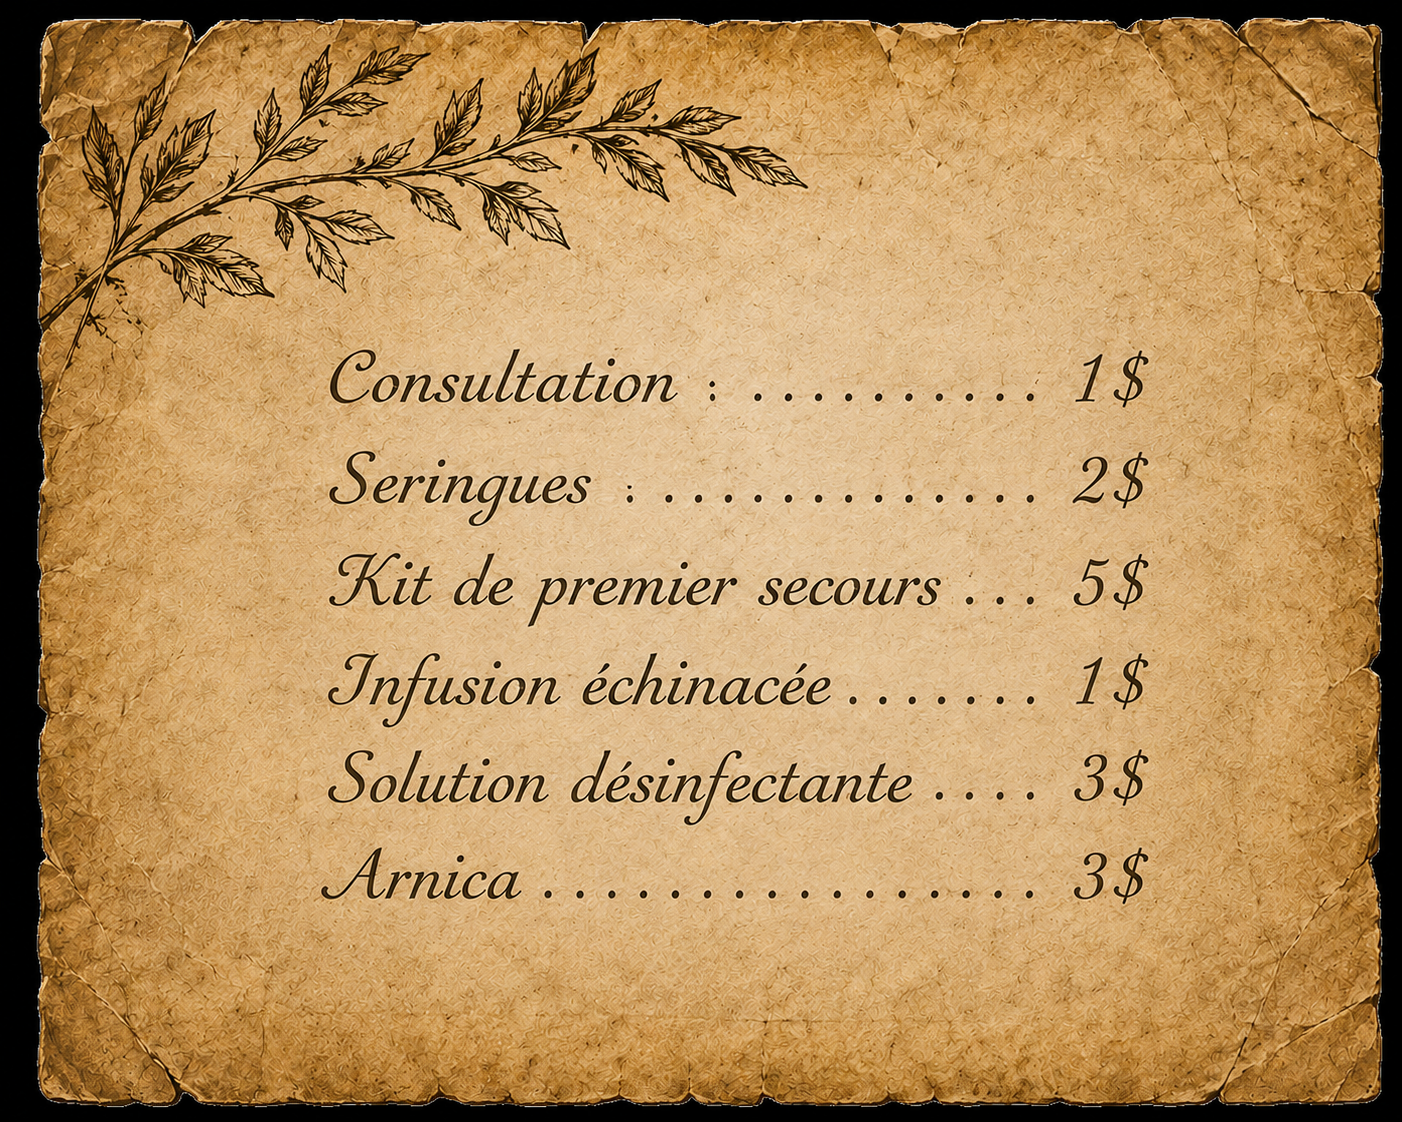
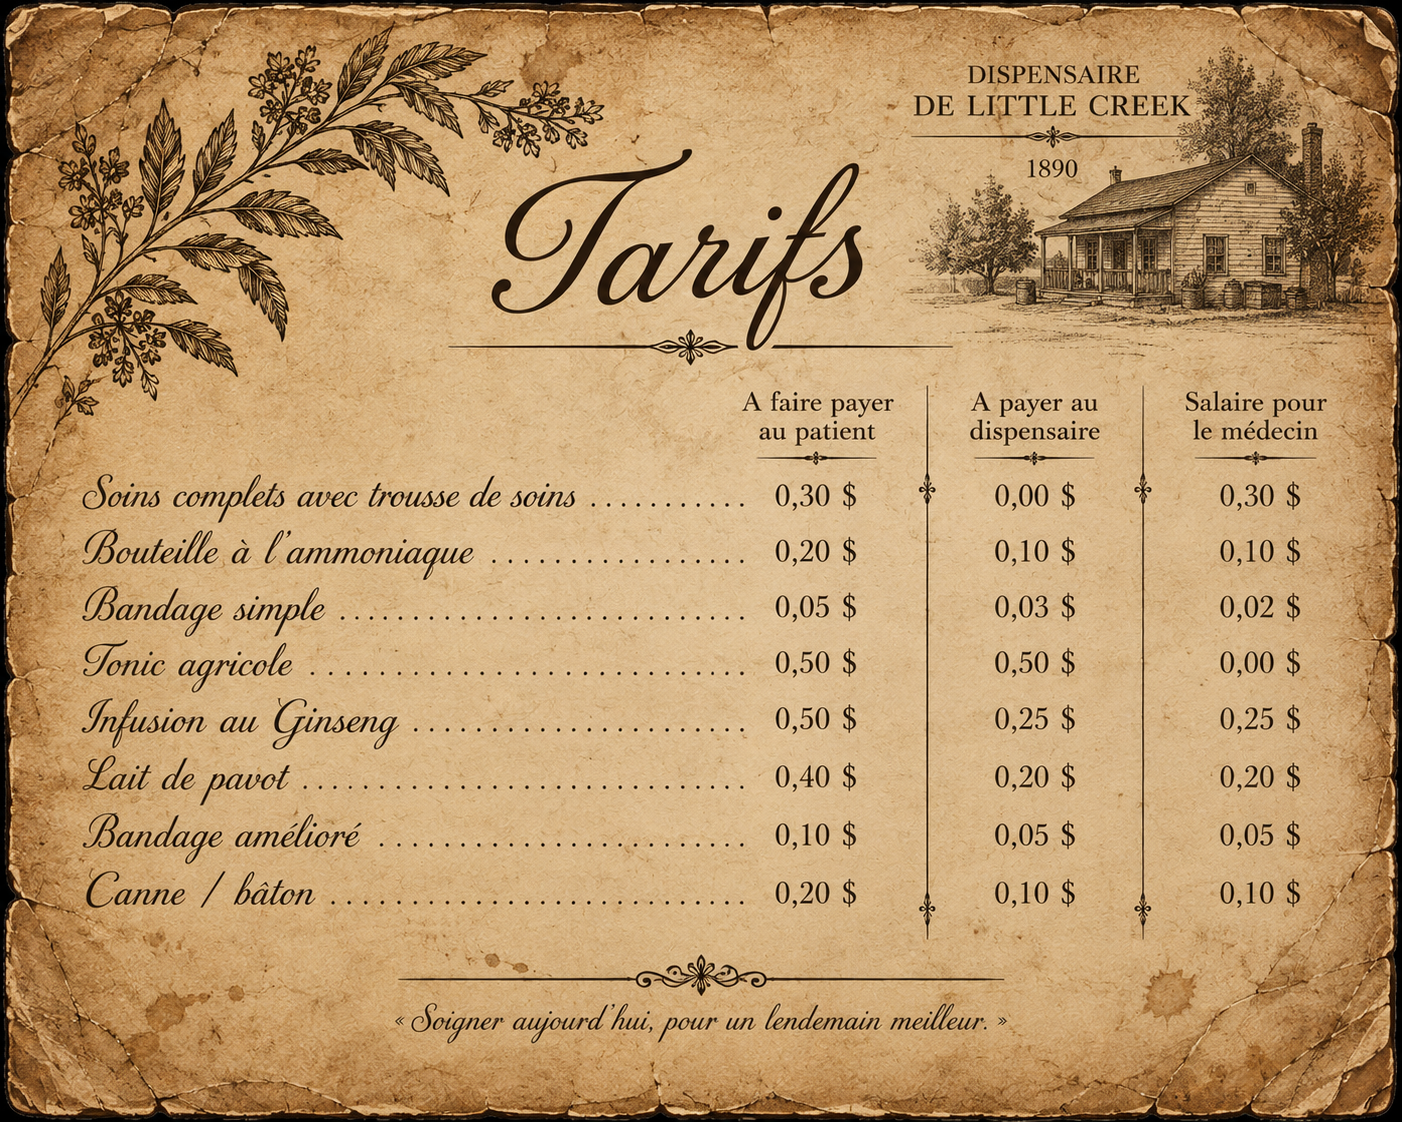
Add quantity field to Caisse et Comptabilité line items
Instead of adding the same prestation/achat multiple times to bill
several units, each line now has a quantity input (1-99) that
multiplies the unit price. Old records (plain string prestations)
are normalized transparently for backward compatibility across the
entry form, the direction read-only view, and both archives pages.

diff --git a/app/redm/comptabilite/page.tsx b/app/redm/comptabilite/page.tsx
@@ -24,9 +24,17 @@ function categoriesToMap(categories: TarifCategory[]): Record<string, TarifCateg
 }
 const PAYEURS: Payeur[] = ['Civil', 'Shérif', 'Écurie Little Creek', 'Écurie Valentine', 'Mairie West Elizabeth'];
 
+interface PrestationItem { id: string; qty: number; }
+function normPrestations(raw: unknown): PrestationItem[] {
+  if (!Array.isArray(raw) || raw.length === 0) return [{ id: 'Consultation', qty: 1 }];
+  return raw.map(p => typeof p === 'string'
+    ? { id: p, qty: 1 }
+    : { id: (p as PrestationItem).id, qty: Math.max(1, Math.min(99, Number((p as PrestationItem).qty) || 1)) });
+}
+
 interface Facture {
   id: string; medecin: string; patientNom: string; dateSeance: string;
-  prestations: string[]; montant: number;
+  prestations: (string | PrestationItem)[]; montant: number;
   payeur: Payeur; statut: StatutPaiement; notes: string; createdAt: string;
 }
 interface SemaineArchivee {
@@ -43,7 +51,7 @@ function save(d: Facture[])            { try { localStorage.setItem(LS,     JSON
 function saveArc(d: SemaineArchivee[]) { try { localStorage.setItem(LS_ARC, JSON.stringify(d)); } catch {} }
 function uid() { return Date.now().toString(36) + Math.random().toString(36).slice(2); }
 function fmt$(n: number) { return n.toLocaleString('fr-FR', { minimumFractionDigits: 2 }) + ' $'; }
-function calcMontant(p: string[], tarifs: Record<string, TarifCategory>) { return Math.round(p.reduce((s, x) => s + (tarifs[x]?.prix ?? 0), 0) * 100) / 100; }
+function calcMontant(p: PrestationItem[], tarifs: Record<string, TarifCategory>) { return Math.round(p.reduce((s, x) => s + (tarifs[x.id]?.prix ?? 0) * x.qty, 0) * 100) / 100; }
 
 function getMondayOf(date: Date): Date {
   const d = new Date(date); const day = d.getDay();
@@ -85,7 +93,7 @@ const STATUT_COL: Record<StatutPaiement, string>  = { 'PAYÉ': '#4A6048', 'EN AT
 const STATUT_ICON: Record<StatutPaiement, string> = { 'PAYÉ': '✔', 'EN ATTENTE': '⏳', 'ANNULÉ': '✕' };
 const inp: React.CSSProperties = { fontFamily: MONO, fontSize: 16, background: 'rgba(0,0,0,0.25)', border: `1px solid rgba(139,90,43,0.30)`, color: T.text, padding: '9px 14px', outline: 'none', boxSizing: 'border-box', width: '100%' };
 const lbl: React.CSSProperties = { fontFamily: MONO, fontSize: 13, color: T.dim, letterSpacing: '0.12em', marginBottom: 5, display: 'block' };
-const EMPTY_FORM = { medecin: '', patientNom: '', dateSeance: '', prestations: ['Consultation'] as string[], payeur: 'Civil' as Payeur, statut: 'EN ATTENTE' as StatutPaiement, notes: '' };
+const EMPTY_FORM = { medecin: '', patientNom: '', dateSeance: '', prestations: [{ id: 'Consultation', qty: 1 }] as PrestationItem[], payeur: 'Civil' as Payeur, statut: 'EN ATTENTE' as StatutPaiement, notes: '' };
 
 export default function CaisseComptabilitePage() {
   const router = useRouter();
@@ -175,12 +183,16 @@ export default function CaisseComptabilitePage() {
   useEffect(() => { if (hydrated) saveArc(archives); }, [archives, hydrated]);
 
   function setPrestation(idx: number, val: string) {
-    setForm(f => { const p=[...f.prestations]; p[idx]=val; return {...f,prestations:p}; });
+    setForm(f => { const p=[...f.prestations]; p[idx]={...p[idx], id:val}; return {...f,prestations:p}; });
+  }
+  function setPrestationQty(idx: number, qty: number) {
+    const clamped = Math.max(1, Math.min(99, Math.round(qty) || 1));
+    setForm(f => { const p=[...f.prestations]; p[idx]={...p[idx], qty:clamped}; return {...f,prestations:p}; });
   }
   function addPrestation() {
     if (form.prestations.length >= 10) return;
     const first = categoriesSorted[0]?.id ?? 'Consultation';
-    setForm(f => ({ ...f, prestations: [...f.prestations, first] }));
+    setForm(f => ({ ...f, prestations: [...f.prestations, { id: first, qty: 1 }] }));
   }
   function removePrestation(idx: number) {
     setForm(f => ({ ...f, prestations: f.prestations.filter((_,i) => i!==idx) }));
@@ -188,7 +200,7 @@ export default function CaisseComptabilitePage() {
 
   function startEdit(f: Facture) {
     setEditing(f);
-    setForm({ medecin:f.medecin??defaultMedecin, patientNom:f.patientNom, dateSeance:f.dateSeance, prestations:f.prestations??['Consultation'], payeur:f.payeur??'Civil', statut:f.statut, notes:f.notes });
+    setForm({ medecin:f.medecin??defaultMedecin, patientNom:f.patientNom, dateSeance:f.dateSeance, prestations:normPrestations(f.prestations), payeur:f.payeur??'Civil', statut:f.statut, notes:f.notes });
   }
   function resetForm() { setForm({ ...EMPTY_FORM, medecin:defaultMedecin, dateSeance:rpDate() }); }
   function cancelEdit() { setEditing(null); resetForm(); }
@@ -211,7 +223,7 @@ export default function CaisseComptabilitePage() {
   /* ── Ligne de facture ── */
   function FactureLine({ f, isCurrent }: { f: Facture; isCurrent: boolean }) {
     const col  = STATUT_COL[f.statut];
-    const pres = f.prestations ?? ['Consultation'];
+    const pres = normPrestations(f.prestations);
     return (
       <div style={{ background: isCurrent ? '#221810' : T.card, border: `1px solid ${isCurrent ? 'rgba(200,168,80,0.22)' : T.border}`, borderLeft: `3px solid ${col}` }}>
         <div style={{ display:'flex', alignItems:'center', gap:12, padding:'11px 16px' }}>
@@ -223,11 +235,11 @@ export default function CaisseComptabilitePage() {
             <div style={{ fontFamily:DISPLAY, fontSize: 18, color:T.text, marginBottom:4 }}>{f.patientNom}</div>
             <div style={{ display:'flex', gap:6, flexWrap:'wrap' }}>
               {pres.map((p,i) => {
-                const cat = tarifs[p];
+                const cat = tarifs[p.id];
                 const isAchat = cat?.type === 'achat';
                 return (
                   <span key={i} style={{ fontFamily:MONO, fontSize: 13, color: isAchat ? '#C8845A' : T.gold, background: isAchat ? 'rgba(200,132,90,0.10)' : 'rgba(200,168,80,0.10)', padding:'1px 7px' }}>
-                    {isAchat ? '🛒 ' : ''}{cat?.nom ?? p} <span style={{color:T.muted}}>{fmt$(cat?.prix ?? 0)}</span>
+                    {isAchat ? '🛒 ' : ''}{cat?.nom ?? p.id}{p.qty > 1 ? ` ×${p.qty}` : ''} <span style={{color:T.muted}}>{fmt$((cat?.prix ?? 0) * p.qty)}</span>
                   </span>
                 );
               })}
@@ -291,7 +303,7 @@ export default function CaisseComptabilitePage() {
                 <div style={{ display:'flex', flexDirection:'column', gap:5 }}>
                   {form.prestations.map((p,idx) => (
                     <div key={idx} style={{ display:'flex', gap:5 }}>
-                      <select style={{...inp,flex:1,cursor:'pointer'}} value={p} onChange={e=>setPrestation(idx,e.target.value)}>
+                      <select style={{...inp,flex:1,cursor:'pointer'}} value={p.id} onChange={e=>setPrestation(idx,e.target.value)}>
                         <optgroup label="Prestations">
                           {categoriesVente.map(c=><option key={c.id} value={c.id}>{c.nom} — {fmt$(c.prix)}</option>)}
                         </optgroup>
@@ -301,6 +313,8 @@ export default function CaisseComptabilitePage() {
                           </optgroup>
                         )}
                       </select>
+                      <input type="number" min={1} max={99} value={p.qty} onChange={e=>setPrestationQty(idx,Number(e.target.value))}
+                        style={{...inp, width:56, flexShrink:0, textAlign:'center', padding:'9px 6px'}} title="Quantité" />
                       {form.prestations.length > 1 && <button onClick={()=>removePrestation(idx)} style={{ fontFamily:MONO, fontSize: 15, padding:'6px 9px', cursor:'pointer', background:'transparent', color:'#8B6060', border:`1px solid rgba(139,64,64,0.3)` }}>✕</button>}
                     </div>
                   ))}

diff --git a/app/redm/direction/comptabilite/page.tsx b/app/redm/direction/comptabilite/page.tsx
@@ -22,9 +22,17 @@ function categoriesToMap(categories: TarifCategory[]): Record<string, TarifCateg
   return m;
 }
 
+interface PrestationItem { id: string; qty: number; }
+function normPrestations(raw: unknown): PrestationItem[] {
+  if (!Array.isArray(raw) || raw.length === 0) return [{ id: 'Consultation', qty: 1 }];
+  return raw.map(p => typeof p === 'string'
+    ? { id: p, qty: 1 }
+    : { id: (p as PrestationItem).id, qty: Math.max(1, Math.min(99, Number((p as PrestationItem).qty) || 1)) });
+}
+
 interface Facture {
   id: string; medecin: string; patientNom: string; dateSeance: string;
-  prestations: string[]; montant: number;
+  prestations: (string | PrestationItem)[]; montant: number;
   payeur: Payeur; statut: StatutPaiement; notes: string; createdAt: string;
 }
 interface SemaineArchivee {
@@ -83,11 +91,11 @@ function salairesByMedecin(factures: Facture[], tarifs: Record<string, TarifCate
     if (!map[key]) map[key] = { medecin: key, actes: 0, ca: 0, salaire: 0 };
     const s = map[key];
     s.actes++;
-    (f.prestations ?? ['Consultation']).forEach(p => {
-      const t = tarifs[p];
+    normPrestations(f.prestations).forEach(p => {
+      const t = tarifs[p.id];
       if (!t || t.type !== 'vente') return;
-      s.ca      += t.prix;
-      s.salaire += t.prix * t.pctMedecin / 100;
+      s.ca      += t.prix * p.qty;
+      s.salaire += t.prix * p.qty * t.pctMedecin / 100;
     });
   });
   return Object.values(map).sort((a,b) => b.ca - a.ca);
@@ -98,10 +106,10 @@ function tresorerie(factures: Facture[], tarifs: Record<string, TarifCategory>):
   let ventes = 0, achats = 0, solde = 0;
   factures.forEach(f => {
     if (f.statut === 'ANNULÉ') return;
-    (f.prestations ?? []).forEach(p => {
-      const t = tarifs[p]; if (!t) return;
-      if (t.type === 'achat') { achats += t.prix; solde -= t.prix; }
-      else { ventes += t.prix; solde += t.prix * t.pctDispensaire / 100; }
+    normPrestations(f.prestations).forEach(p => {
+      const t = tarifs[p.id]; if (!t) return;
+      if (t.type === 'achat') { achats += t.prix * p.qty; solde -= t.prix * p.qty; }
+      else { ventes += t.prix * p.qty; solde += t.prix * p.qty * t.pctDispensaire / 100; }
     });
   });
   return { ventes, achats, solde };
@@ -191,7 +199,7 @@ export default function DirectionComptabilitePage() {
   /* ── Ligne de registre (lecture seule) ── */
   function RegistreLine({ f }: { f: Facture }) {
     const col  = STATUT_COL[f.statut];
-    const pres = f.prestations ?? ['Consultation'];
+    const pres = normPrestations(f.prestations);
     return (
       <div style={{ background:T.card, border:`1px solid ${T.border}`, borderLeft:`3px solid ${col}` }}>
         <div style={{ display:'flex', alignItems:'center', gap:12, padding:'10px 16px' }}>
@@ -206,11 +214,11 @@ export default function DirectionComptabilitePage() {
             </div>
             <div style={{ display:'flex', gap:6, flexWrap:'wrap' }}>
               {pres.map((p,i) => {
-                const cat = tarifs[p];
+                const cat = tarifs[p.id];
                 const isAchat = cat?.type === 'achat';
                 return (
                   <span key={i} style={{ fontFamily:MONO, fontSize: 12, color: isAchat ? '#C8845A' : T.gold, background: isAchat ? 'rgba(200,132,90,0.10)' : 'rgba(200,168,80,0.10)', padding:'1px 7px' }}>
-                    {isAchat ? '🛒 ' : ''}{cat?.nom ?? p}
+                    {isAchat ? '🛒 ' : ''}{cat?.nom ?? p.id}{p.qty > 1 ? ` ×${p.qty}` : ''}
                   </span>
                 );
               })}

diff --git a/app/redm/comptabilite/archives/page.tsx b/app/redm/comptabilite/archives/page.tsx
@@ -21,9 +21,17 @@ function categoriesToMap(categories: TarifCategory[]): Record<string, TarifCateg
 const STATUT_COL:  Record<StatutPaiement, string> = { 'PAYÉ': '#4A6048', 'EN ATTENTE': '#C8A850', 'ANNULÉ': '#8B4040' };
 const STATUT_ICON: Record<StatutPaiement, string> = { 'PAYÉ': '✔', 'EN ATTENTE': '⏳', 'ANNULÉ': '✕' };
 
+interface PrestationItem { id: string; qty: number; }
+function normPrestations(raw: unknown): PrestationItem[] {
+  if (!Array.isArray(raw) || raw.length === 0) return [{ id: 'Consultation', qty: 1 }];
+  return raw.map(p => typeof p === 'string'
+    ? { id: p, qty: 1 }
+    : { id: (p as PrestationItem).id, qty: Math.max(1, Math.min(99, Number((p as PrestationItem).qty) || 1)) });
+}
+
 interface Facture {
   id: string; medecin: string; patientNom: string; dateSeance: string;
-  prestations: string[]; montant: number;
+  prestations: (string | PrestationItem)[]; montant: number;
   payeur: Payeur; statut: StatutPaiement; notes: string; createdAt: string;
 }
 interface SemaineArchivee {
@@ -186,7 +194,7 @@ export default function ArchivesCaisseComptabilitePage() {
             <div style={{ fontFamily:MONO, fontSize:14, color:T.dim, padding:'30px', textAlign:'center', border:`1px dashed ${T.border}` }}>Aucune facture pour ce filtre</div>
           ) : factures.map(f => {
             const col  = STATUT_COL[f.statut];
-            const pres = f.prestations ?? ['Consultation'];
+            const pres = normPrestations(f.prestations);
             const pcol = PAYEUR_COL[f.payeur] ?? T.muted;
             return (
               <div key={f.id} style={{ background:T.card, border:`1px solid ${T.border}`, borderLeft:`4px solid ${col}` }}>
@@ -202,11 +210,11 @@ export default function ArchivesCaisseComptabilitePage() {
                     <div style={{ fontFamily:DISPLAY, fontSize:20, color:T.text, marginBottom:6 }}>{f.patientNom}</div>
                     <div style={{ display:'flex', gap:6, flexWrap:'wrap', alignItems:'center' }}>
                       {pres.map((p,i) => {
-                        const cat = tarifs[p];
+                        const cat = tarifs[p.id];
                         const isAchat = cat?.type === 'achat';
                         return (
                           <span key={i} style={{ fontFamily:MONO, fontSize:13, color: isAchat ? '#C8845A' : T.gold, background: isAchat ? 'rgba(200,132,90,0.10)' : 'rgba(200,168,80,0.10)', padding:'2px 8px', border: `1px solid ${isAchat ? 'rgba(200,132,90,0.25)' : 'rgba(200,168,80,0.20)'}` }}>
-                            {isAchat ? '🛒 ' : ''}{cat?.nom ?? p} <span style={{color:T.muted}}>{fmt$(cat?.prix ?? 0)}</span>
+                            {isAchat ? '🛒 ' : ''}{cat?.nom ?? p.id}{p.qty > 1 ? ` ×${p.qty}` : ''} <span style={{color:T.muted}}>{fmt$((cat?.prix ?? 0) * p.qty)}</span>
                           </span>
                         );
                       })}

diff --git a/app/redm/direction/comptabilite/archives/page.tsx b/app/redm/direction/comptabilite/archives/page.tsx
@@ -25,9 +25,17 @@ function categoriesToMap(categories: TarifCategory[]): Record<string, TarifCateg
   return m;
 }
 
+interface PrestationItem { id: string; qty: number; }
+function normPrestations(raw: unknown): PrestationItem[] {
+  if (!Array.isArray(raw) || raw.length === 0) return [{ id: 'Consultation', qty: 1 }];
+  return raw.map(p => typeof p === 'string'
+    ? { id: p, qty: 1 }
+    : { id: (p as PrestationItem).id, qty: Math.max(1, Math.min(99, Number((p as PrestationItem).qty) || 1)) });
+}
+
 interface Facture {
   id: string; medecin: string; patientNom: string; dateSeance: string;
-  prestations: string[]; montant: number;
+  prestations: (string | PrestationItem)[]; montant: number;
   payeur: Payeur; statut: StatutPaiement; notes: string; createdAt: string;
 }
 interface SemaineArchivee {
@@ -50,11 +58,11 @@ function salairesByMedecin(factures: Facture[], tarifs: Record<string, TarifCate
     if (!map[key]) map[key] = { medecin: key, actes: 0, ca: 0, salaire: 0 };
     const s = map[key];
     s.actes++;
-    (f.prestations ?? ['Consultation']).forEach(p => {
-      const t = tarifs[p];
+    normPrestations(f.prestations).forEach(p => {
+      const t = tarifs[p.id];
       if (!t || t.type !== 'vente') return;
-      s.ca      += t.prix;
-      s.salaire += t.prix * t.pctMedecin / 100;
+      s.ca      += t.prix * p.qty;
+      s.salaire += t.prix * p.qty * t.pctMedecin / 100;
     });
   });
   return Object.values(map).sort((a,b) => b.ca - a.ca);
@@ -63,7 +71,7 @@ function salairesByMedecin(factures: Facture[], tarifs: Record<string, TarifCate
 /* ── Ligne de registre (lecture seule) ── */
 function RegistreLine({ f, tarifs }: { f: Facture; tarifs: Record<string, TarifCategory> }) {
   const col  = STATUT_COL[f.statut];
-  const pres = f.prestations ?? ['Consultation'];
+  const pres = normPrestations(f.prestations);
   return (
     <div style={{ background:T.card, border:`1px solid ${T.border}`, borderLeft:`3px solid ${col}` }}>
       <div style={{ display:'flex', alignItems:'center', gap:12, padding:'10px 16px' }}>
@@ -78,11 +86,11 @@ function RegistreLine({ f, tarifs }: { f: Facture; tarifs: Record<string, TarifC
           </div>
           <div style={{ display:'flex', gap:6, flexWrap:'wrap' }}>
             {pres.map((p,i) => {
-              const cat = tarifs[p];
+              const cat = tarifs[p.id];
               const isAchat = cat?.type === 'achat';
               return (
                 <span key={i} style={{ fontFamily:MONO, fontSize: 12, color: isAchat ? '#C8845A' : T.gold, background: isAchat ? 'rgba(200,132,90,0.10)' : 'rgba(200,168,80,0.10)', padding:'1px 7px' }}>
-                  {isAchat ? '🛒 ' : ''}{cat?.nom ?? p}
+                  {isAchat ? '🛒 ' : ''}{cat?.nom ?? p.id}{p.qty > 1 ? ` ×${p.qty}` : ''}
                 </span>
               );
             })}
